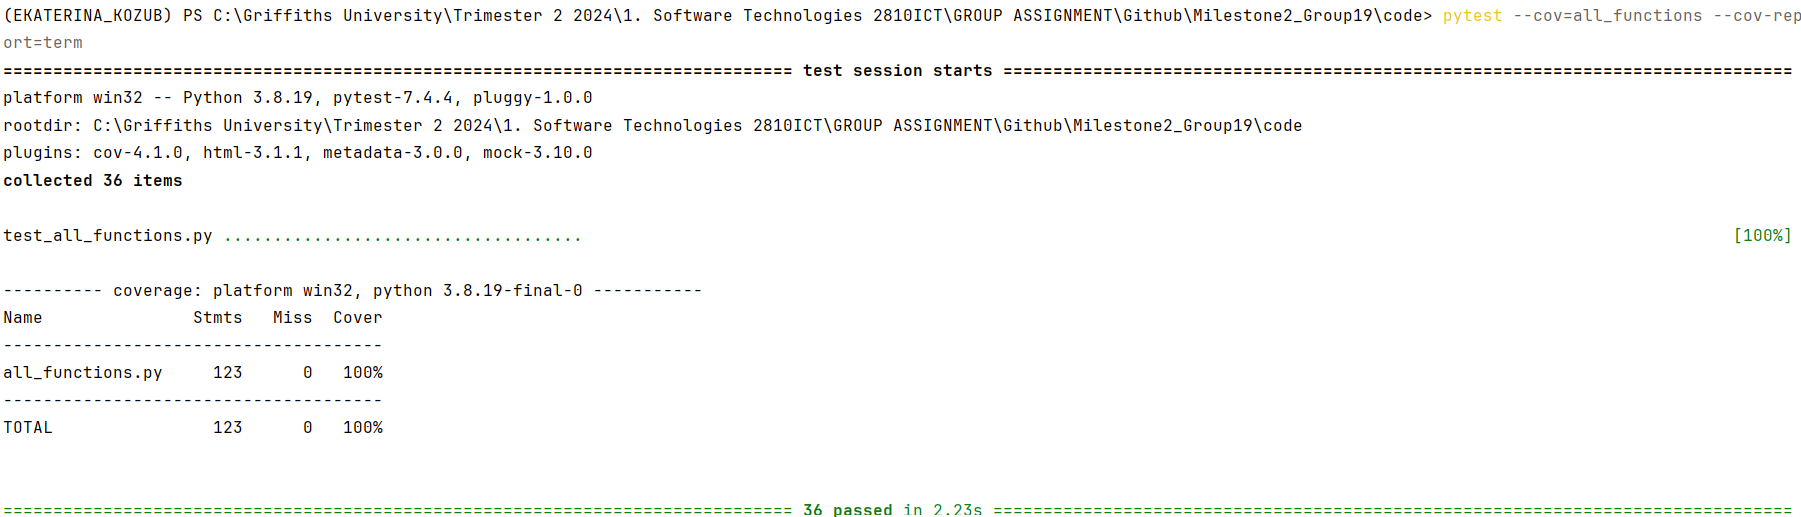
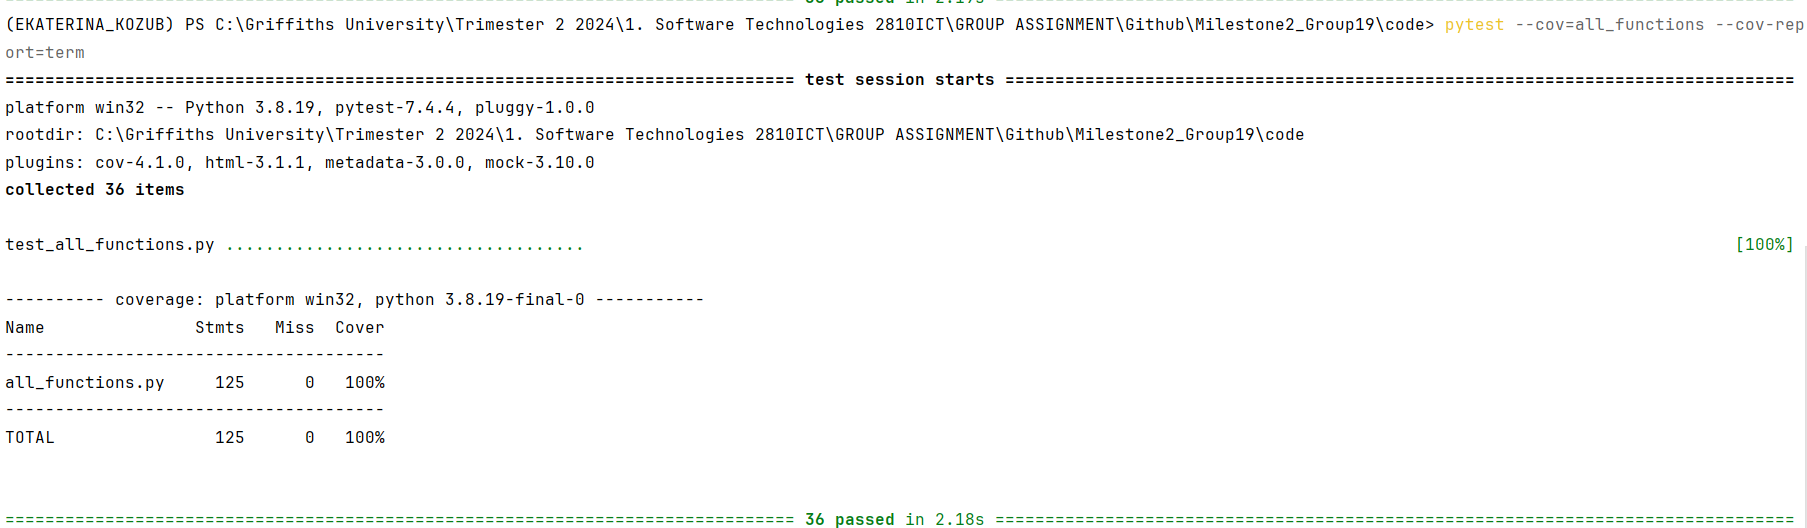
v_3.4

diff --git a/code/run_template.py b/code/run_template.py
@@ -110,7 +110,7 @@ class MyMainFrame(MyFrame):
             self.m_grid1.ForceRefresh()
             self.Show(True)
 
-        except ValueError:
+        except (ValueError, TypeError):
             wx.MessageBox("Error: Not valid input.", "Error", wx.OK | wx.ICON_ERROR)
 
     def display_food(self, event):
@@ -125,7 +125,7 @@ class MyMainFrame(MyFrame):
                 self.selected_quantity = quantity
             else:
                 wx.MessageBox("Food item not found in the meal plan.", "Error", wx.OK | wx.ICON_ERROR)
-        except ValueError:
+        except (ValueError, TypeError):
             wx.MessageBox("Error: Not valid input.", "Error", wx.OK | wx.ICON_ERROR)
 
     def display_removed_food(self, event):
@@ -147,7 +147,7 @@ class MyMainFrame(MyFrame):
             self.m_staticText44.SetLabel("xxxx Calories")
             self.selected_meal_food = ""
             self.selected_quantity = 0
-        except KeyError:
+        except (KeyError, TypeError):
             wx.MessageBox("Error: Not valid input.", "Error", wx.OK | wx.ICON_ERROR)
 
 if __name__ == "__main__":

diff --git a/code/test_all_functions.py b/code/test_all_functions.py
@@ -175,10 +175,12 @@ def test_generate_meal_plan_invalid(meal_plan):
 def test_generate_total_calories_valid(meal_plan):
     total_calories = generate_total_calories(meal_plan)
     assert total_calories == 324
+    total_calories = generate_total_calories({})
+    assert total_calories == 0
 
 def test_generate_total_calories_invalid():
-    with pytest.raises(ValueError):
-        generate_total_calories({})
+    with pytest.raises(TypeError):
+        generate_total_calories(None)
 
 def test_remove_food_from_meal_plan_valid(meal_plan):
     remove_food_from_meal_plan(meal_plan, 'apple', 1)

diff --git a/code/all_functions.py b/code/all_functions.py
@@ -114,7 +114,8 @@ def generate_meal_plan(meal_plan, food_name, quantity):
 def generate_total_calories(meal_plan):
     c_total = 0
     global df
-
+    if not isinstance(meal_plan, dict):
+        raise TypeError
     if not meal_plan:
         return c_total
 
